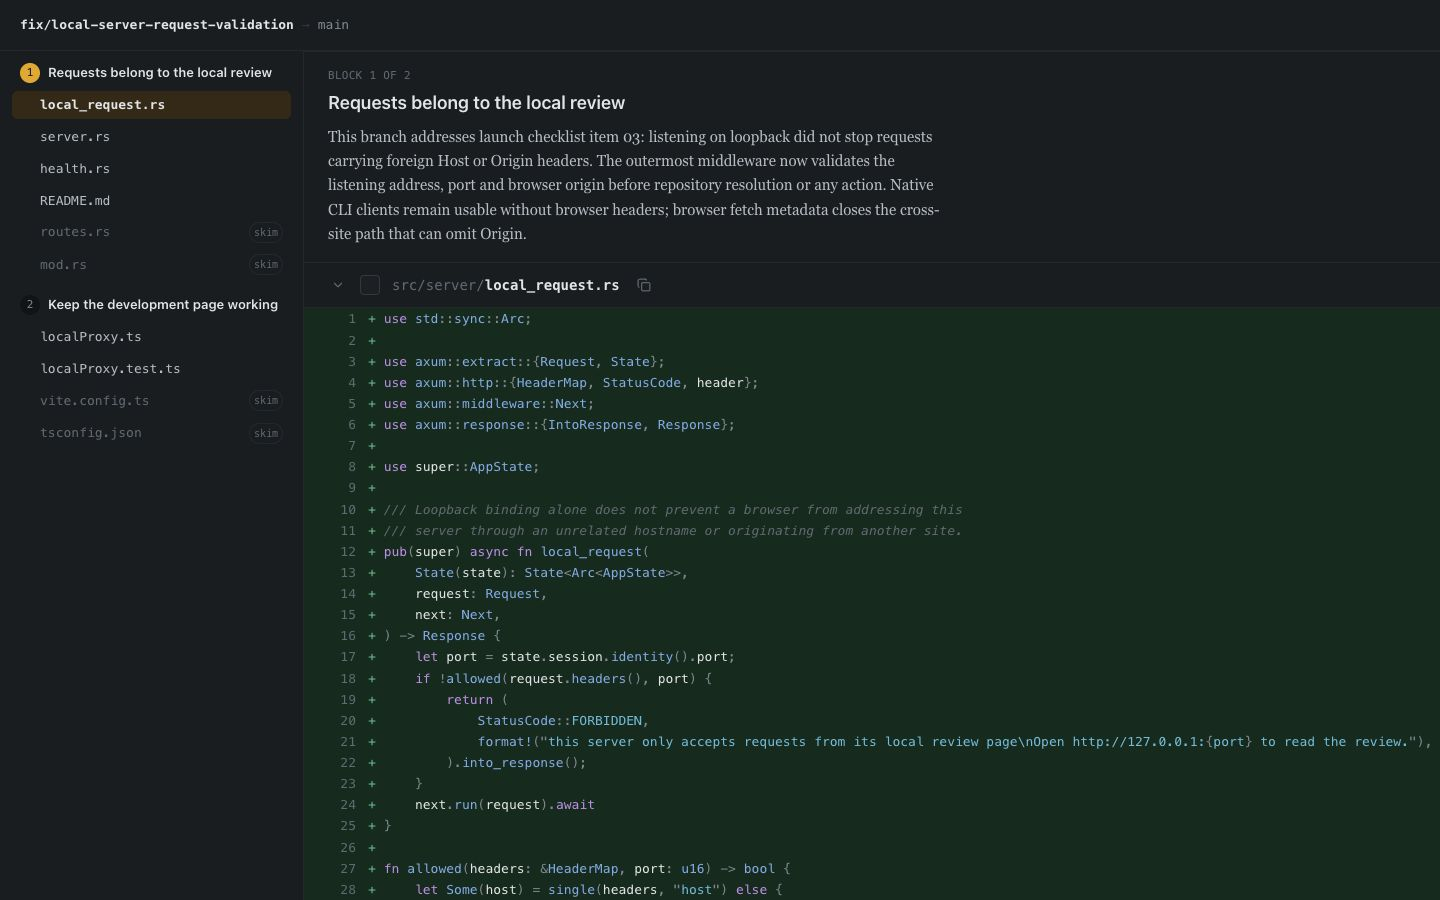
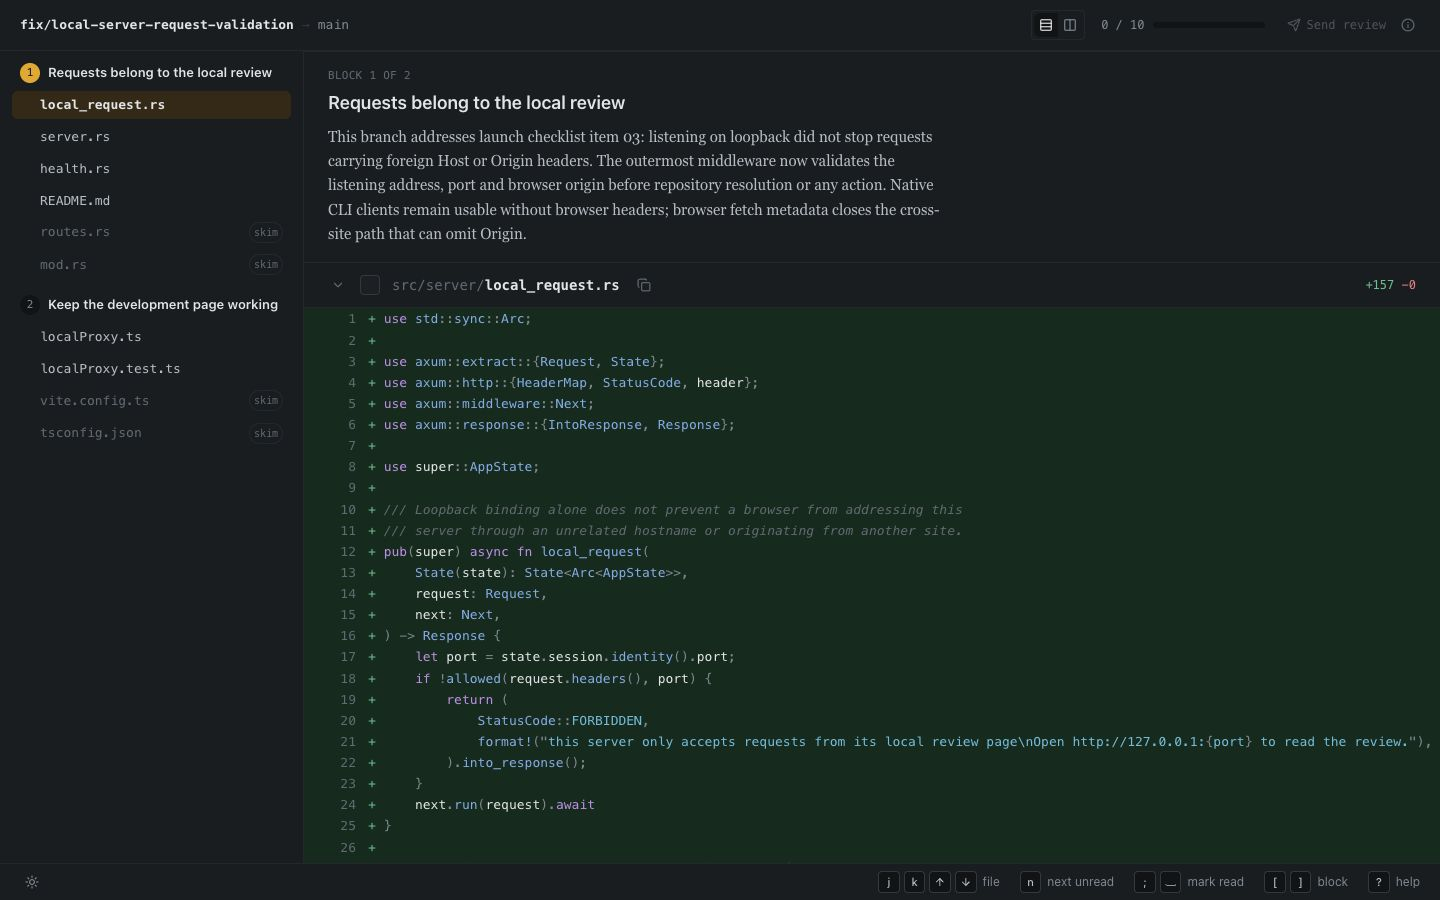
docs(readme): illustrate review features

diff --git a/README.md b/README.md
@@ -79,14 +79,34 @@ Farol needs a map before it can serve a review. You can also
 
 ## Review
 
-- Follow the blocks in the sidebar and mark files as read.
-- Drag across line numbers, or click `+`, to leave a comment.
-- Press `?` for keyboard shortcuts.
-- Use **Send review** to publish to GitHub. The page explains how to authorize
-  the destination host with your token; local reading needs no token.
+Follow the blocks in the sidebar: each brings the implementation context next
+to the code it explains. Mark files as read as you go; your progress stays local
+and survives new commits until a file changes.
 
-Your progress stays local and survives new commits until a file changes.
-Use `farol servers` to list open reviews.
+### Compare side by side
+
+Switch between unified and split views to read changes in the layout you prefer.
+Split view puts the old and new code next to each other.
+
+![Split view showing the old and new versions of two configuration files.](docs/review-split.jpg)
+
+### Leave comments on the code
+
+Click `+` or drag across line numbers to comment on a line or range. Comments
+stay local until you use **Send review** to publish them to GitHub; the page
+guides you through authorizing the destination host.
+
+![A local example comment beside the changed line and its implementation context.](docs/review-comments.jpg)
+
+### Know what you can skim
+
+The map marks supporting files as **skim** when they can be skipped without
+missing the core implementation. Each carries a reason, so you can decide
+whether to open it anyway.
+
+![Skim markers in the sidebar and reasons above the supporting configuration changes.](docs/review-skim.jpg)
+
+Press `?` for keyboard shortcuts. Use `farol servers` to list open reviews.
 
 [CLI and behavior guide](docs/usage.md) · [Development](docs/development.md) ·
 [Preparing a release](docs/releases.md)
